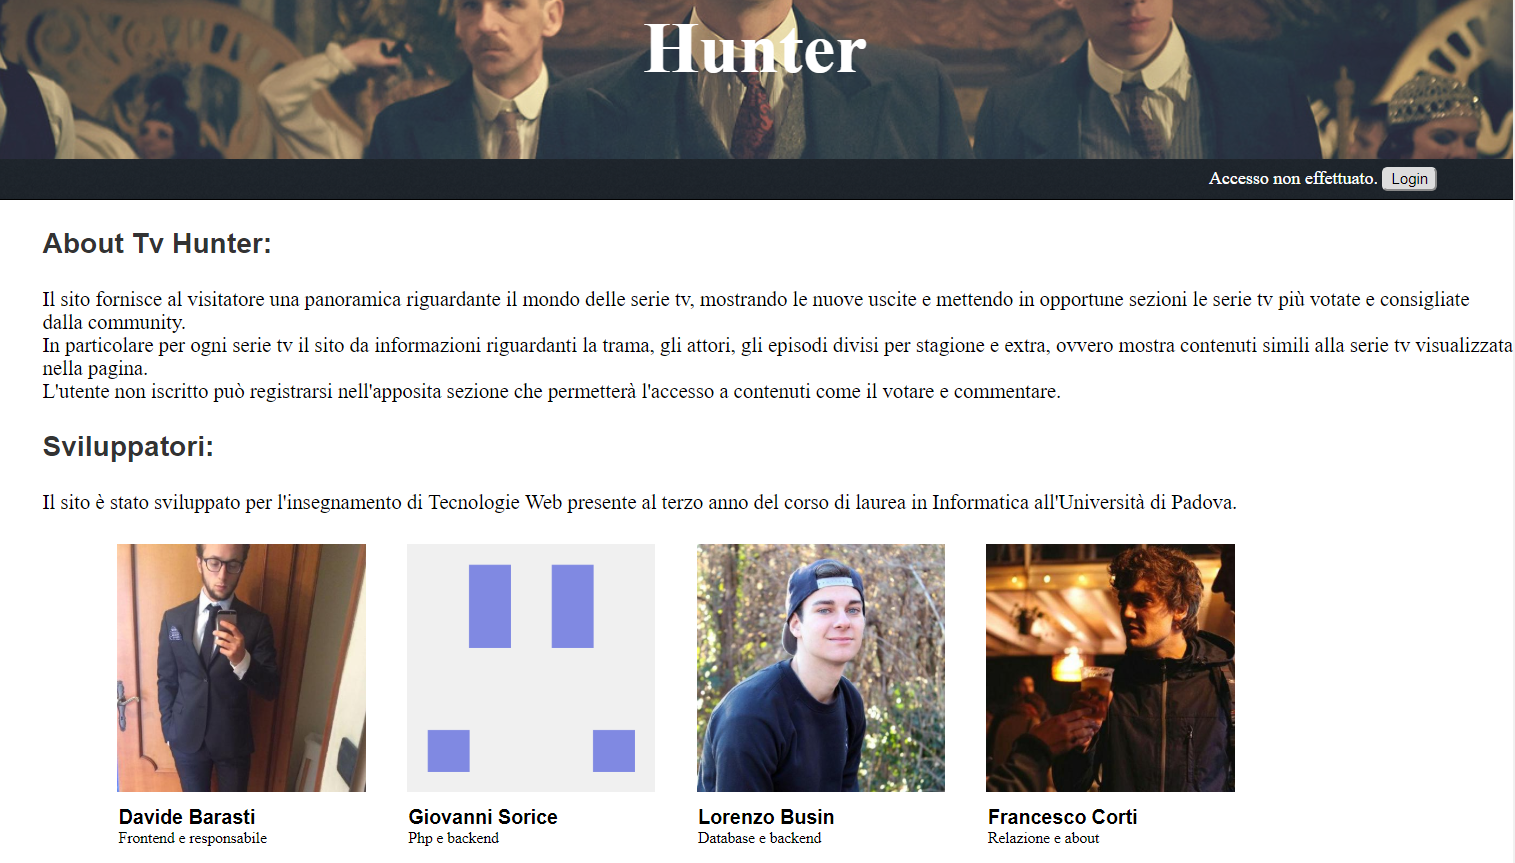
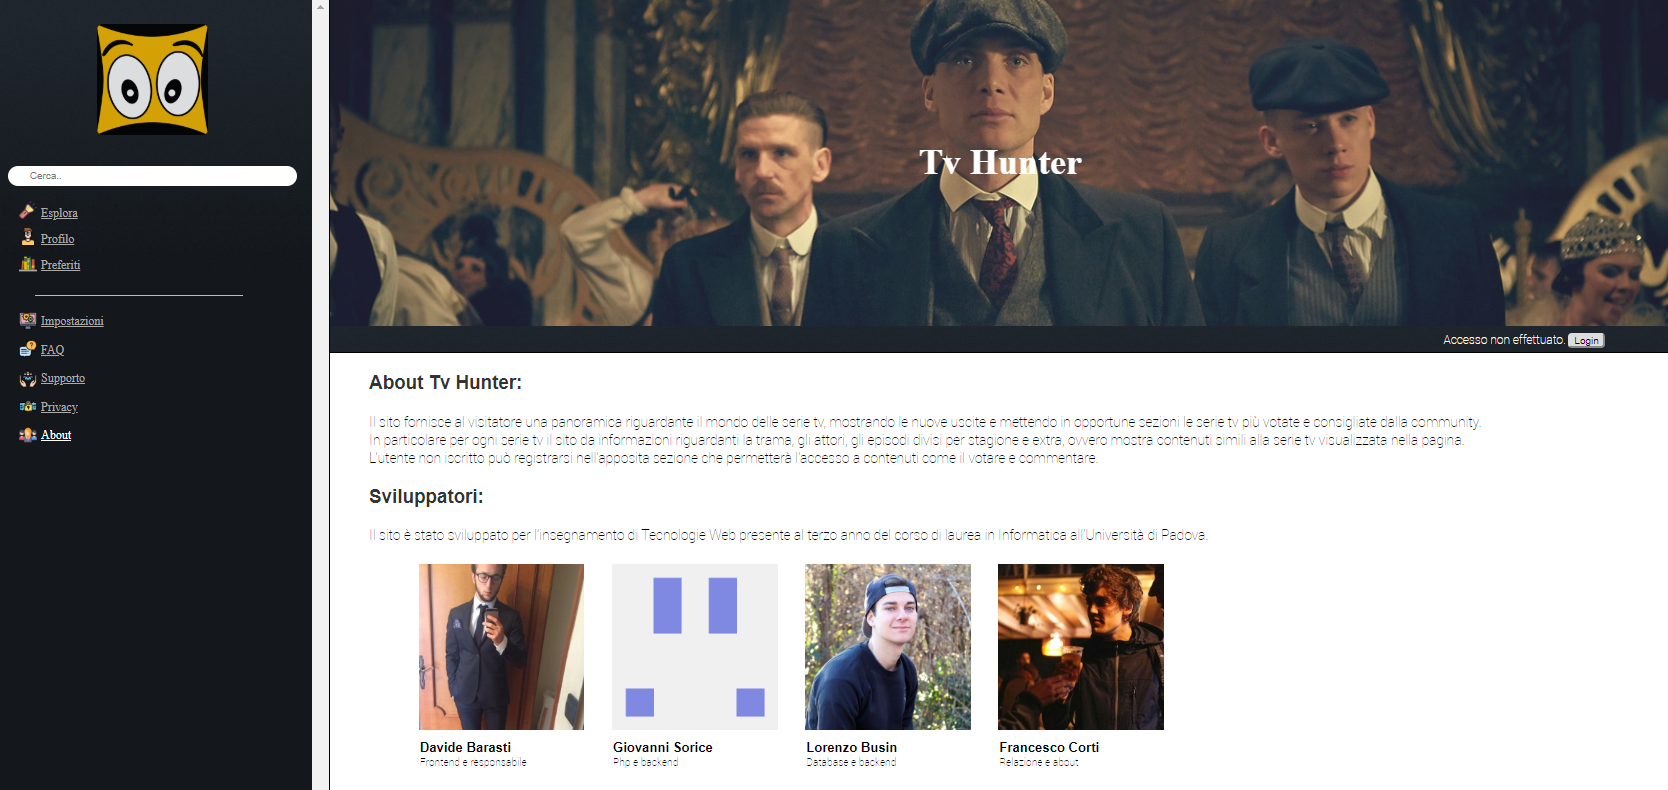
Aggiunte pagine aggiornate relazione

diff --git a/Relazione/sez/progettazione.tex b/Relazione/sez/progettazione.tex
@@ -77,32 +77,58 @@ Capire come va strutturata la pagina di amministratore
 
 \subparagraph{About} 
 ~\\	
-La pagina presenta le informazioni riguardanti la piattaforma e dei membri del gruppo. Sono poi presenti delle foto dei membri del gruppo con una breve descrizione riguardante il ruolo.
+
+\begin{figure}[h!]
+	\centerline{\includegraphics[scale=0.4]{img/about.png}}
+	\caption{Pagina di About}
+	\label{fig:addForm}
+\end{figure}	
+
+~\\	
+La pagina presenta le informazioni riguardanti la piattaforma e dei membri del gruppo. Sono poi presenti delle foto dei membri del gruppo con una breve descrizione riguardante il ruolo che hanno assunto durante lo sviluppo del progetto. 
 ~\\	
 \subparagraph{Supporto} 
 
 ~\\
 
 \paragraph{Contenuti dinamici}   
-\subparagraph{Esplora}
 
-~\\
-\subparagraph{Profilo}
-
-~\\
 \subparagraph{Preferiti}
 
+\subparagraph{Esplora}
 ~\\
+
+\begin{figure}[H]
+	\centerline{\includegraphics[scale=0.33]{img/esplora.png}}
+	\caption{Pagina esplora per la ricerca}
+	\label{fig:addForm}
+\end{figure}	
+La pagina esplora permette, tramite l'inserimento tramite tastiera nella search bar, di cercare nel catalogo di serie tv disponibili nel sito.
+	La pagina mostra durante la ricerca i contenuti più simili alla parola, o pezzo di parola, che si sta immettendo nella barra di ricerca. 
+
+
+
+\subparagraph{Profilo}
+~\\
+
+
 \subparagraph{Impostazioni} 
-
 ~\\
+
 \subparagraph{FAQ} 
-
 ~\\
 
-\subparagraph{Privacy} 
-
 ~\\
+\subparagraph{Privacy}
+~\\
+
+\begin{figure}[H]
+	\centerline{\includegraphics[scale= 0.4]{img/privacy.png}}
+	\caption{Pagina privacy}
+	
+\end{figure}
+La pagina privacy illustra come il sito tratti le informazione sensibili che sono inserite dagli utenti quando effettuano la registrazione e i meccanismi di difesa utilizzati per renderli sicuri ad attacchi esterni. 
+
 
 
 %\subsubsection{Amministrazione}

diff --git a/Relazione/sez/suddivisione.tex b/Relazione/sez/suddivisione.tex
@@ -9,4 +9,4 @@
 \subsection{Giovanni Sorice}
 
 \subsection{Lorenzo Busin}
-Lorenzo si è occupato di creare il database del sito
+Lorenzo si è occupato di creare il database del sito e ha gestito l'inserimento delle informazioni tramite mysql. Si è inoltre occupato di generare la pagine dinamicamente tramite php. 

diff --git a/Relazione/Relazione_tecweb.tex b/Relazione/Relazione_tecweb.tex
@@ -3,7 +3,7 @@
 \documentclass[openany, a4paper, 12pt]{article}
 \usepackage{sos}
 \input{comandi.tex}
-
+\usepackage[section]{placeins}
 \begin{document}
 \copertina{}
 
